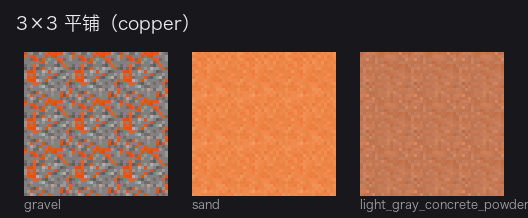
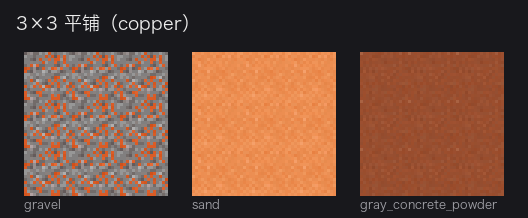
art: gravel mask as speckles; dust base -> gray_concrete_powder
- 矿砾遮罩：原版模板是单像素碎点 + 2~3px 小团（不是矿脉/圆斑），重画为该形态，
  覆盖 21%，alpha 178（vanilla gravel 比原版底图亮，需略压）
- 矿尘底图由 light_gray 改成 gray_concrete_powder，色调更接近原版 dust
- 矿砂 alpha 126（原版 132，vanilla sand 更亮，降一点让底纹透出）
- 文档同步；对照图 build/preview/ref_vs_ours_gravel.png（本地参考，build/ 忽略）

Changed region(s): [[0.6667, 0.2202, 1.0, 0.9908], [0.0303, 0.2202, 0.3333, 0.9083]]

diff --git a/art/blocks/ore_overlay/generate.py b/art/blocks/ore_overlay/generate.py
@@ -36,7 +36,7 @@ OSMIUM = ("#26313D", "#3F5B78", "#608FC4", "#8FB4DC", "#C4DCF4")
 _pieces.PALETTES.setdefault("osmium", OSMIUM)
 PALETTES = dict(_pieces.PALETTES)
 
-BASES = {"gravel": "gravel", "sand": "sand", "dust": "light_gray_concrete_powder"}
+BASES = {"gravel": "gravel", "sand": "sand", "dust": "gray_concrete_powder"}
 
 
 def font(size):
@@ -58,32 +58,26 @@ def vanilla_block(name):
     return Image.open(target).convert("RGBA")
 
 
-def gravel_mask(alpha=196, seed=11, target=66):
-    """稀疏矿脉：方向、粗细、长度都打散，避免排成斜纹（原版 gravel 模板是 21% 覆盖）。"""
+def gravel_mask(alpha=178, target=55, seed=5):
+    """矿砾遮罩：单像素碎点为主、偶尔两格相连（原版模板就是这个形态，21% / alpha 163）。"""
     rng = random.Random(seed)
-    rows = [[(255, 255, 255, 0) for _ in range(16)] for _ in range(16)]
-    dirs = [(1, 0), (0, 1), (1, 1), (1, -1), (2, 1), (1, 2)]
-    placed = 0
-    tries = 0
-    while placed < target and tries < 400:
-        tries += 1
-        x, y = rng.randint(0, 15), rng.randint(0, 15)
-        dx, dy = rng.choice(dirs)
-        n = rng.randint(2, 4)
-        thick = rng.choice([1, 1, 2])
-        cells = []
-        for i in range(n):
-            for t in range(thick):
-                cx, cy = x + i * dx + (t if dy == 0 else 0), y + i * dy + (t if dx == 0 else 0)
-                if 0 <= cx < 16 and 0 <= cy < 16:
-                    cells.append((cx, cy))
-        # 不许和已有脉贴在一起，否则会连成大片
-        if any(rows[cy][cx][3] for cx, cy in cells):
+    pts = set()
+    while len(pts) < target:
+        x, y = rng.randrange(16), rng.randrange(16)
+        if (x, y) in pts:
             continue
-        for cx, cy in cells:
-            rows[cy][cx] = (255, 255, 255, alpha)
-        placed += len(cells)
-    return rows
+        pts.add((x, y))
+        # 偶尔多加 1~2 格，形成 2-3px 的小团，而不是清一色单点
+        extra = 0
+        if rng.random() < 0.55:
+            extra = 2 if rng.random() < 0.3 else 1
+        for _ in range(extra):
+            if len(pts) >= target:
+                break
+            nx, ny = x + rng.choice((-1, 0, 1)), y + rng.choice((-1, 0, 1))
+            if 0 <= nx < 16 and 0 <= ny < 16 and (nx, ny) not in pts:
+                pts.add((nx, ny))
+    return [[(255, 255, 255, alpha if (x, y) in pts else 0) for x in range(16)] for y in range(16)]
 
 
 def wash(level, jitter, seed):
@@ -95,8 +89,8 @@ def wash(level, jitter, seed):
 
 def mask_image(kind):
     rows = {"gravel": gravel_mask,
-            "sand": lambda: wash(140, 12, 21),
-            "dust": lambda: wash(108, 10, 33)}[kind]()
+            "sand": lambda: wash(126, 6, 21),
+            "dust": lambda: wash(110, 6, 33)}[kind]()
     img = Image.new("RGBA", (16, 16))
     for y in range(16):
         for x in range(16):

diff --git a/docs/textures.md b/docs/textures.md
@@ -57,7 +57,7 @@ assets/exnihilosatellitium/textures/
 
 | 状态 | 遮罩覆盖 | 遮罩 alpha | 读感 |
 |---|---|---|---|
-| 矿砾方块 | 21%（稀疏斑块） | 163 ≈ 64% | 砂砾上叠局部色斑，底图纹理保留 |
+| 矿砾方块 | 21%（碎点 + 2~3px 小团） | 163 ≈ 64% | 砂砾上叠局部色斑，底图纹理保留 |
 | 矿砂方块 | 100%（整面） | 128–142 ≈ 50% | 整块罩一层半透明色，接近纯色 |
 | 矿尘方块 | 100%（整面） | 97–108 ≈ 40% | 同上，更淡 |
 
@@ -65,9 +65,9 @@ assets/exnihilosatellitium/textures/
 
 | 方块 | 底图（引用，不打包） | 遮罩 |
 |---|---|---|
-| 矿砾方块 | `minecraft:block/gravel` | `ore_mask_gravel`（21% / 163） |
-| 矿砂方块 | `minecraft:block/sand` | `ore_mask_sand`（100% / 132） |
-| 矿尘方块 | `minecraft:block/light_gray_concrete_powder` | `ore_mask_dust`（100% / 102） |
+| 矿砾方块 | `minecraft:block/gravel` | `ore_mask_gravel`（21% 碎点 / 178） |
+| 矿砂方块 | `minecraft:block/sand` | `ore_mask_sand`（100% / 126） |
+| 矿尘方块 | `minecraft:block/gray_concrete_powder` | `ore_mask_dust`（100% / 110） |
 
 - 三张遮罩是**唯一**随包分发的方块 PNG（`art/blocks/ore_overlay/`，16×16，白色 + alpha）。
 - **罩色取 `materials.json` 的 `color`（身份色，原版 `OreList` 的那套）**，不要取物品调色板的
